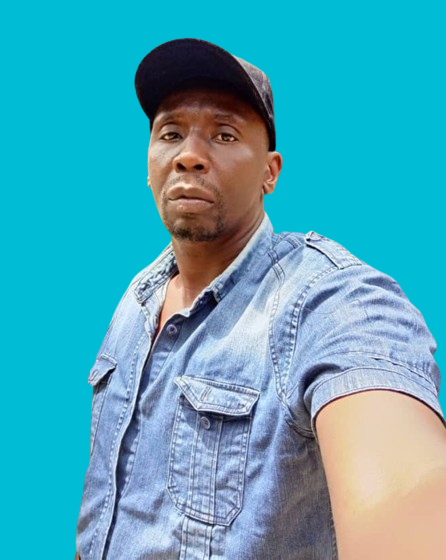
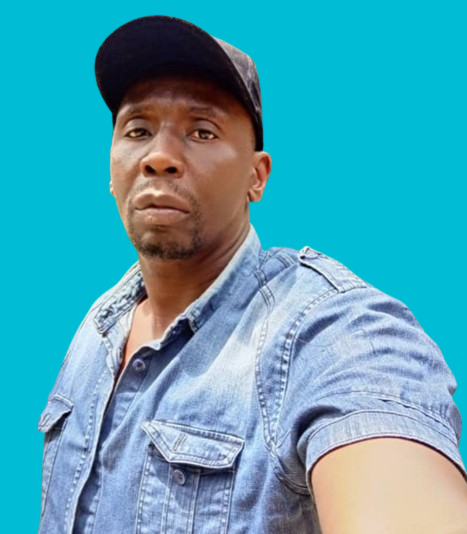
changes

diff --git a/assets/css/style.css b/assets/css/style.css
@@ -657,6 +657,7 @@ section {
 
 .why-us .content {
   padding: 60px 100px 0 100px;
+  text-align: center;
 }
 
 .why-us .content h3 {
@@ -1843,7 +1844,7 @@ section {
 }
 
 .values .icon-box {
-  padding: 30px;
+  padding: 25px;
   position: relative;
   overflow: hidden;
   margin: 0 0 40px 0;
@@ -1890,23 +1891,23 @@ section {
 }
 
 .values .icon-box-pink .icon i {
-  color: #ff689b;
+  color: rgb(16, 180, 7);
 }
 
 .values .icon-box-pink:hover {
-  border-color: #ff689b;
+  border-color: rgb(16, 180, 7);
 }
 
 .values .icon-box-cyan .icon {
-  background: #e6fdfc;
+  background: rgb(16, 180, 7);
 }
 
 .values .icon-box-cyan .icon i {
-  color: #3fcdc7;
+  color: rgb(16, 180, 7);
 }
 
 .values .icon-box-cyan:hover {
-  border-color: #3fcdc7;
+  border-color: rgb(16, 180, 7);
 }
 
 .values .icon-box-green .icon {
@@ -1914,11 +1915,11 @@ section {
 }
 
 .values .icon-box-green .icon i {
-  color: #41cf2e;
+  color: rgb(16, 180, 7);
 }
 
 .values .icon-box-green:hover {
-  border-color: #41cf2e;
+  border-color: rgb(16, 180, 7);
 }
 
 .values .icon-box-blue .icon {
@@ -1926,9 +1927,9 @@ section {
 }
 
 .values .icon-box-blue .icon i {
-  color: #2282ff;
+  color: rgb(16, 180, 7);
 }
 
 .values .icon-box-blue:hover {
-  border-color: #2282ff;
+  border-color: rgb(16, 180, 7);
 }

diff --git a/index.html b/index.html
@@ -499,7 +499,7 @@
 
           <div class="col-lg-6" data-aos="zoom-in" data-aos-delay="100">
             <div class="member d-flex align-items-start">
-              <div class="pic"><img src="assets/img/team/team-3.jpeg" class="img-fluid" alt=""></div>
+              <div class="pic"><img src="assets/img/team/team-33.jpg" class="img-fluid" alt=""></div>
               <div class="member-info">
                 <h4>CPA. Deborah Wami</h4>
                 <span>An Economist</span>
